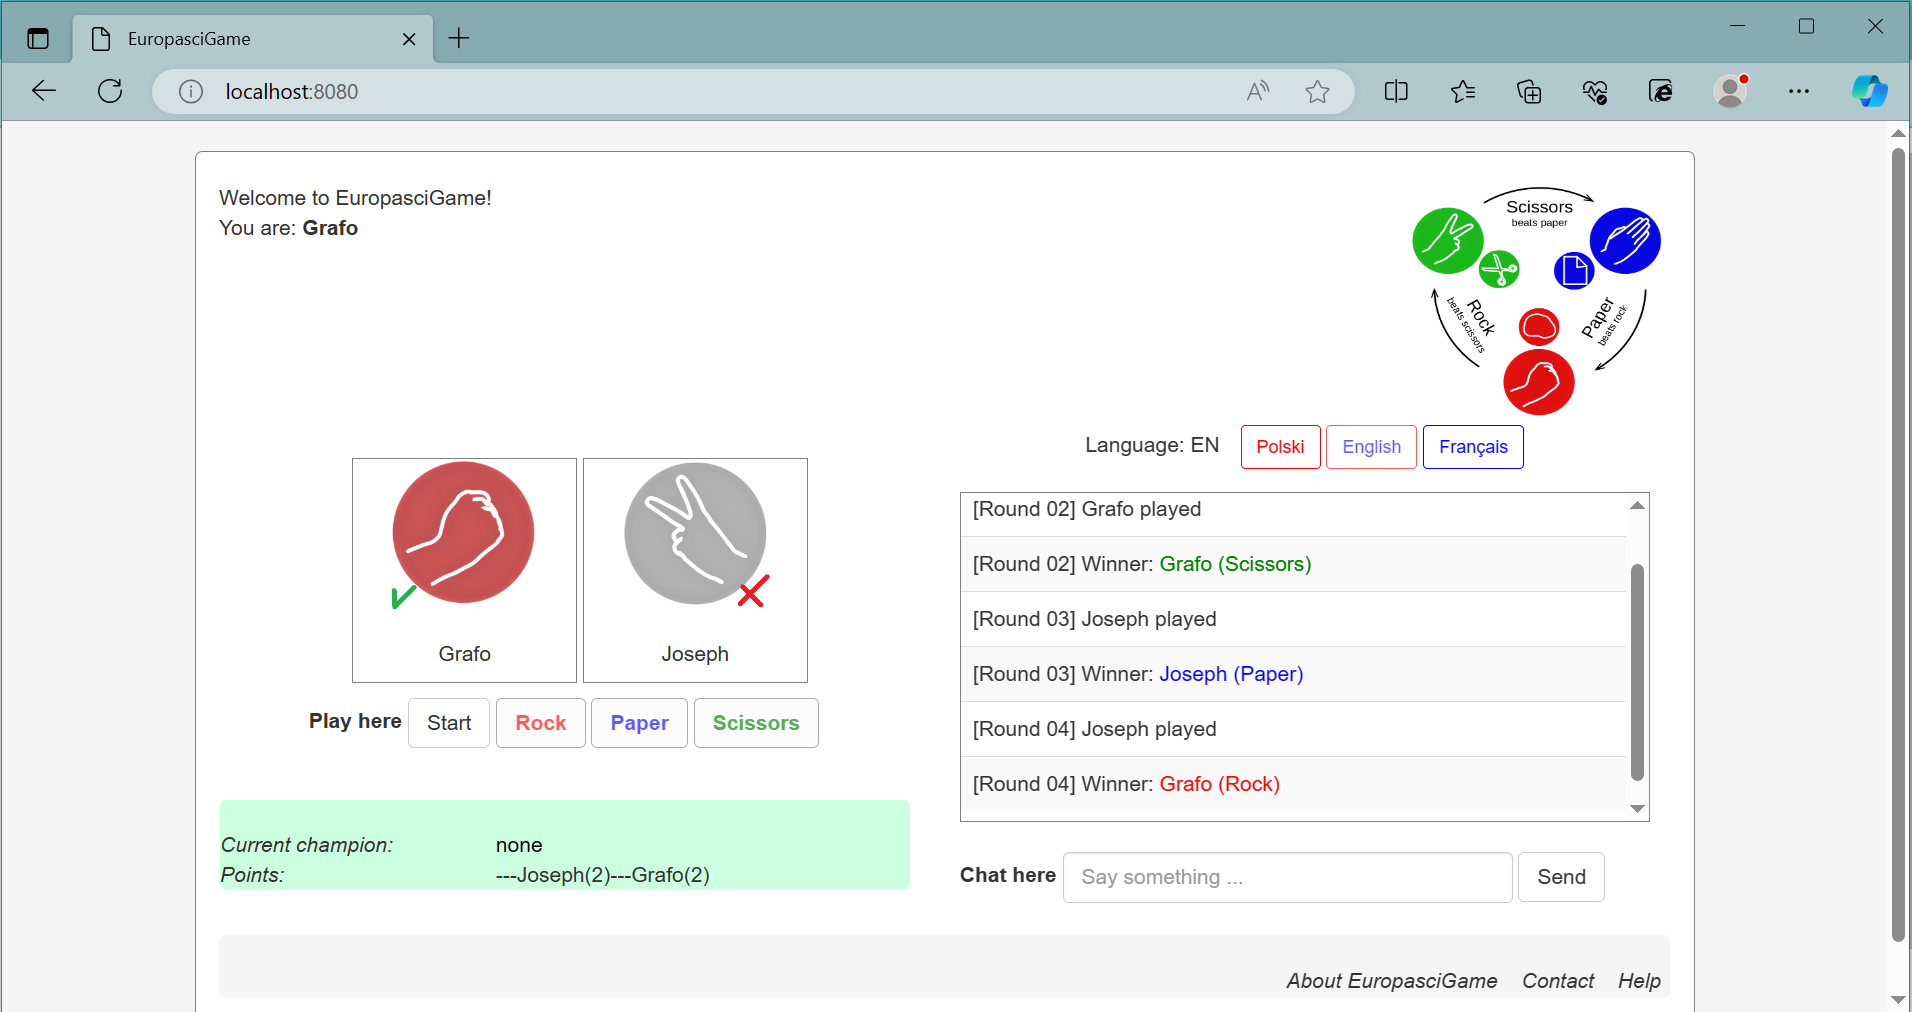
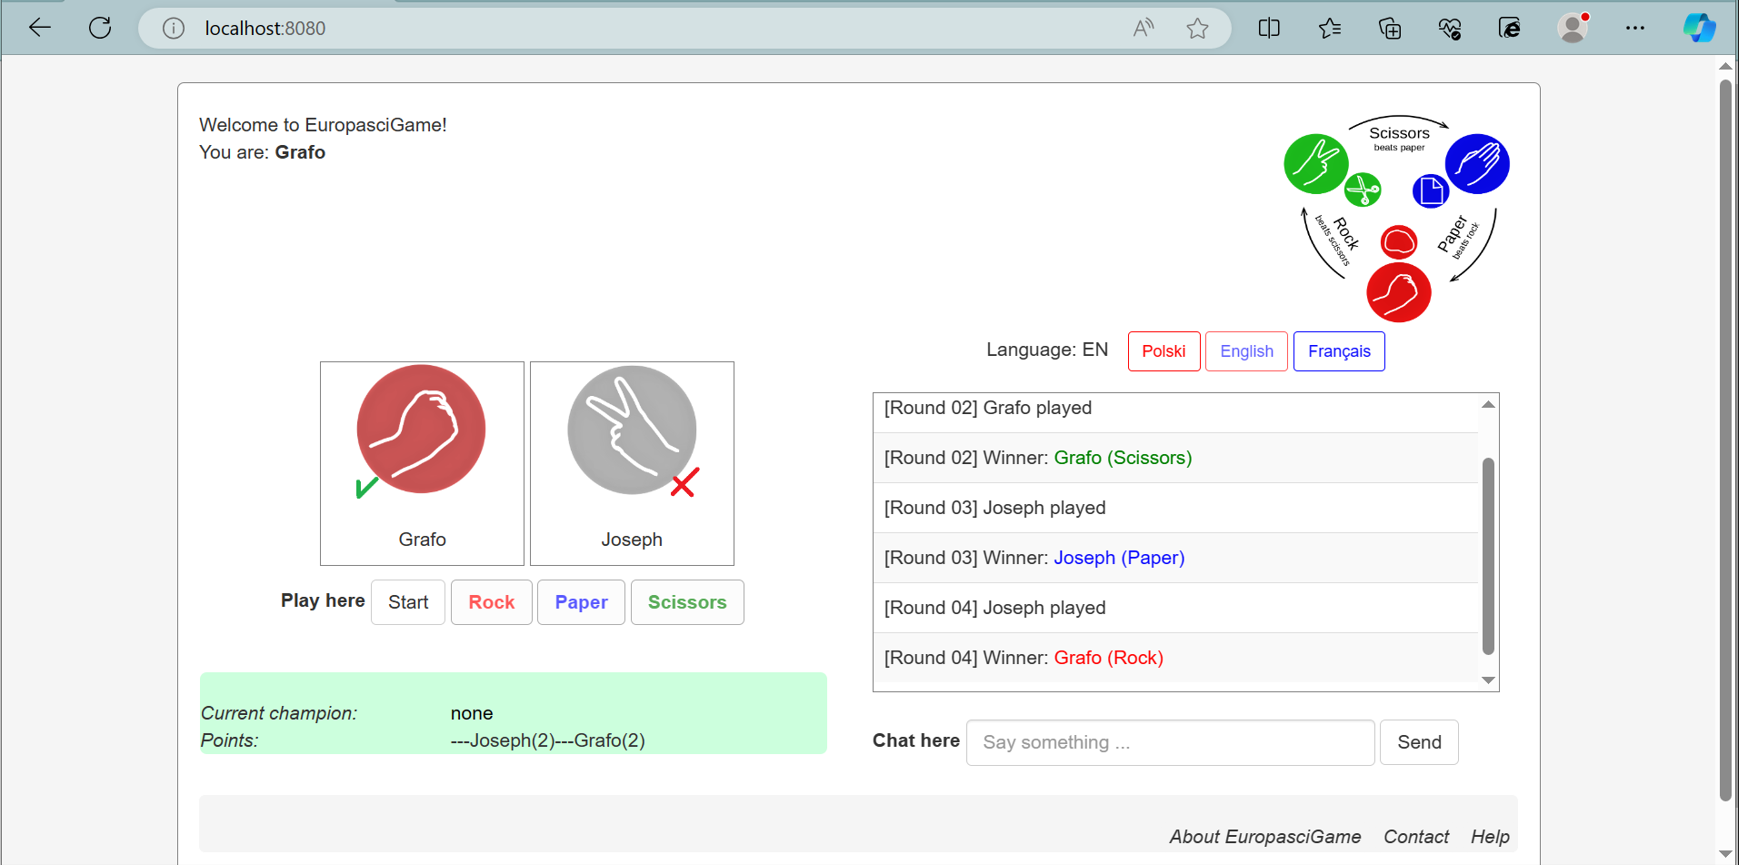
doc: update the main screenshot in readme.md

Changed region(s): [[0.0, 0.0, 1.0, 1.0], [0.6832, 0.9364, 0.8695, 0.9988], [0.8384, 0.4682, 0.8695, 0.4994]]

diff --git a/README.md b/README.md
@@ -23,3 +23,7 @@ The main technologies used in the project are:
 - JavaScript & JQuery,
 - JUnit 5,
 - Maven.
+
+## Screenshots
+
+![europascigame_screenshot_01.PNG](/src/main/resources/static/europascigame_screenshot_01.PNG?raw=true)
